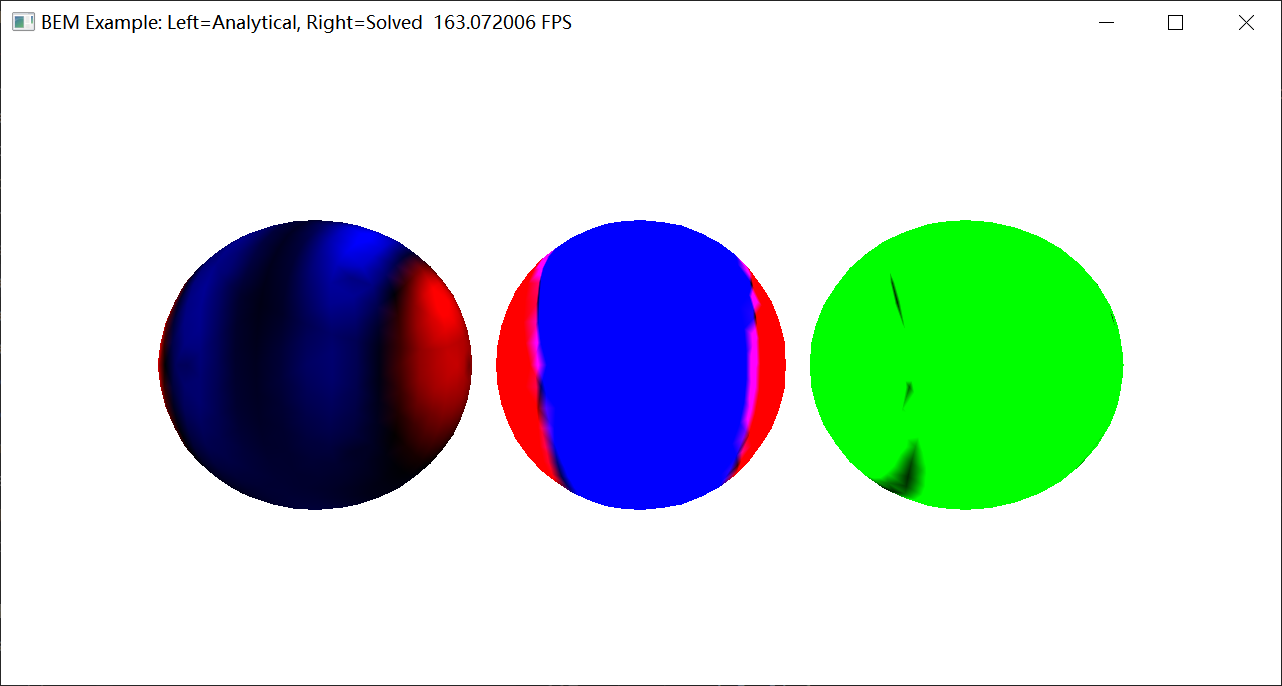
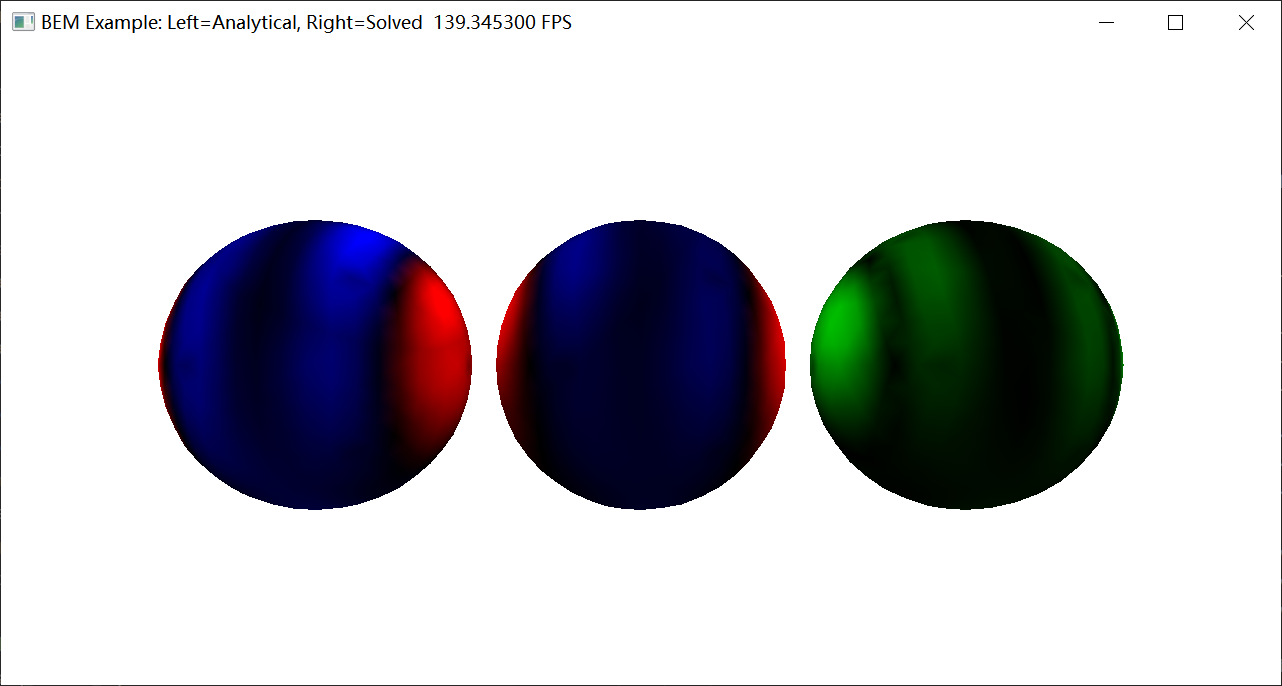
Add Identity Layer

diff --git a/src/BEM_functions/identity_layer/identity_layer_3d.py b/src/BEM_functions/identity_layer/identity_layer_3d.py
@@ -1,0 +1,238 @@
+import taichi as ti
+import numpy as np
+
+from src.BEM_functions.identity_layer import AbstractIdentityLayer
+from src.BEM_functions.utils import CellFluxType, VertAttachType, KernelType, PanelsRelation
+
+
+class IdentityLayer3d(AbstractIdentityLayer):
+    rank = 3
+
+    def __init__(self, BEM_manager, *args, **kwargs,):
+        super(IdentityLayer3d, self).__init__(BEM_manager, *args, **kwargs)
+
+        self._GaussQR = self._BEM_manager._GaussQR
+        self._Q = self._BEM_manager._Q  # Number of local shape functions
+        self._dim = self._BEM_manager._dim
+
+        self._ti_dtype = self._BEM_manager._ti_dtype
+        self._np_dtype = self._BEM_manager._np_dtype
+        self._kernel_type = self._BEM_manager._kernel_type
+        self._n = self._BEM_manager._n
+
+        self.num_of_Dirichlets = self._BEM_manager.get_num_of_Dirichlets()
+        self.num_of_Neumanns = self._BEM_manager.get_num_of_Neumanns()
+        self.num_of_vertices = self._BEM_manager.get_num_of_vertices()
+        self.num_of_panels = self._BEM_manager.get_num_of_panels()
+
+        self._Dirichlet_offset_i = self._BEM_manager._Dirichlet_offset_i
+        self._Neumann_offset_i = self._BEM_manager._Neumann_offset_i
+        self._Dirichlet_offset_j = self._BEM_manager._Dirichlet_offset_j
+        self._Neumann_offset_j = self._BEM_manager._Neumann_offset_j
+    
+    def kill(self):
+        self.num_of_Dirichlets = 0
+        self.num_of_Neumanns = 0
+
+    @ti.func
+    def interplate_from_unit_triangle_to_general(self, r1, r2, x1, x2, x3):
+        """
+        r2
+         ^
+        1|                                      x2
+         |   /|                                 /|
+         |  / |                                / |
+         | /  |                      ->       /  |
+         |/   |                              /   |
+        0|----|1--->r1                    x3/____|x1
+         0
+         
+         - How to project a unit triangle (x1, x2, x3) to a general one?
+         - If we choose (0, 0)->x1, (1, 0)->x2, (1, 1)->x3
+         - x (r1, r2) = (1 - r1) * x1 + (r1 - r2) * x2 + r2 * x3
+        """
+        return (1 - r1) * x1 + (r1 - r2) * x2 + r2 * x3
+    
+    @ti.func
+    def shape_function(self, r1, r2, i: int):
+        return self._BEM_manager.shape_function(r1, r2, i)
+    
+    @ti.func
+    def integrate_on_single_panel(
+        self,
+        triangle_x: int,
+        basis_function_index_x: int,
+        basis_function_index_y: int,
+    ):
+        """
+        Get Integration points and weights for a general triangle (Use Duffy Transform)
+        ### Perspective from Duffy Transform
+         y
+         ^
+        1|__________
+         |          |
+         |  *    *  |
+         |          |     <- This refers GaussQR = 2, you will get GaussQR*GaussQR=4 points and 4 weights
+         |  *    *  |
+        0-----------|1--->x
+         0
+
+         ============= TO =============
+
+         y
+         ^
+        1|
+         |   /|
+         |  / |
+         | /  |           <- Points: (x, y) := (x, x * y)
+         |/   |           <- Weights:   w  To  w
+        0|----|1--->x     <- Jaobian:   1   To  x
+         0
+
+         ============= TO =============
+          r2
+         ^
+        1|                                      x2
+         |   /|                                 /|
+         |  / |                                / |
+         | /  |                      ->       /  |
+         |/   |                              /   |
+        0|----|1--->r1                    x3/____|x1
+         0
+         
+         - How to project a unit triangle (x1, x2, x3) to a general one?
+         - If we choose (0, 0)->x1, (1, 0)->x2, (1, 1)->x3
+         - x (r1, r2) = (1 - r1) * x1 + (r1 - r2) * x2 + r2 * x3
+
+         ==============================
+        To sum up, a random number (t, s) as a sample on triangle, where t,s \in [0, 1]
+        r1, r2          = ...
+        Sampled_point   = (1 - r1) * x1  +  (r1 - r2) * x2  +  r2 * x3
+        Corres_weight   = w * 2 * Area
+        Jacobian        = r1
+        phase functions = 1 - r1, r1 - r2, r2
+
+        !!!!!!!!!!!!!!
+        However, if these two panels has overlaps, such like common edegs, common vertices, even the same panel.
+        For instance, the same panel:
+        Reference: S. A. Sauter and C. Schwab, Boundary Element Methods, Springer Ser. Comput. Math. 39, Springer-Verlag, Berlin, 2011.
+        https://link.springer.com/content/pdf/10.1007/978-3-540-68093-2.pdf
+        See this algorithm from chapter 5.2.1
+
+        Get Integration on coincide triangles, where
+        int_{Tau_x} int_{Tau_x} (func) dx dy
+            = (2 * area_x) * (2 * area_y) *           int_{unit_triangle}    int_{unit_triangle}     (func) dx             dy
+            = (2 * area_x) * (2 * area_y) * sum_{6} * int_{0->1} int_{0->w1} int_{0->w2} int_{0->w3} (func) d(w1) d(w2)    d(w3) d(w4)
+            = (2 * area_x) * (2 * area_y) * sum_{6} * int_{0->1} int_{0->1}  int_{0->1}  int_{0->1}  (func) d(xsi) d(eta1) d(eta2) d(eta3)
+        
+        Similarly, besides the coincide case we have mentioned above,
+        other approaches such like common vertices/edges can be refered by chapter 5.2.2 and 5.2.2
+        """
+        integrand = ti.Vector([0.0 for i in range(self._n)], self._ti_dtype)
+
+        x1 = self._BEM_manager.get_vertice_from_flat_panel_index(self._dim * triangle_x + 0)
+        x2 = self._BEM_manager.get_vertice_from_flat_panel_index(self._dim * triangle_x + 1)
+        x3 = self._BEM_manager.get_vertice_from_flat_panel_index(self._dim * triangle_x + 2)
+        area_x = self._BEM_manager.get_panel_area(triangle_x)
+        normal_x = self._BEM_manager.get_panel_normal(triangle_x)
+        panel_type = self._BEM_manager.get_panel_type(triangle_x)
+
+        GaussQR2 = self._GaussQR * self._GaussQR
+        
+        for gauss_number in range(GaussQR2):
+            iii = gauss_number
+
+            # Generate number(xsi, eta1, eta2, eta3)
+            xsi = self._BEM_manager.Gauss_points_1d[iii // self._GaussQR]
+            eta1 = self._BEM_manager.Gauss_points_1d[iii % self._GaussQR]
+
+            # Scale your weight
+            weight_x = self._BEM_manager.Gauss_weights_1d[iii // self._GaussQR] * self._BEM_manager.Gauss_weights_1d[iii % self._GaussQR] * (area_x * 2.0)
+            # Get your final weight
+            weight = weight_x
+
+            # Generate number(r1, r2) for panel x
+            r1_x = xsi
+            r2_x = eta1 * r1_x
+
+            # Get your jacobian
+            jacobian = r1_x
+
+            phix = self.shape_function(r1_x, r2_x, i=basis_function_index_x)
+            phiy = self.shape_function(r1_x, r2_x, i=basis_function_index_y)
+
+            integrand.x += (
+                phix * phiy
+            ) * weight * jacobian
+        
+        return integrand
+    
+    @ti.kernel
+    def matA_add_global_Identity_matrix(self, mutiplier: float):
+        """
+        Compute BIO matix W_mat
+        Please note other than other three BIOs, this BIO has a negtive sign
+        """
+        if ti.static(self.num_of_Dirichlets > 0):
+            for local_I in range(self.num_of_Dirichlets):
+                # Dirichlet Boundary
+                global_i = self._BEM_manager.map_local_Dirichlet_index_to_panel_index(local_I)
+                self._BEM_manager.mat_A[local_I + self._Dirichlet_offset_i, local_I + self._Dirichlet_offset_j] += mutiplier * self.integrate_on_single_panel(
+                    triangle_x=global_i,
+                    basis_function_index_x=-1, basis_function_index_y=-1
+                )
+            
+        if ti.static(self.num_of_Neumanns > 0):
+            num_of_Neumann_panels = self.num_of_panels - self.num_of_Dirichlets
+            for local_I in range(num_of_Neumann_panels):
+                for iijj in range(9):
+                    ii = iijj // self._dim
+                    jj = iijj % self._dim
+
+                    # Neumann Boundary
+                    global_i = self._BEM_manager.map_local_Neumann_index_to_panel_index(local_I)
+
+                    global_vert_idx_i = self._BEM_manager.get_vertice_index_from_flat_panel_index(self._dim * global_i + ii)
+                    local_vert_idx_i = self._BEM_manager.map_global_vert_index_to_local_Neumann(global_vert_idx_i)
+                    global_vert_idx_j = self._BEM_manager.get_vertice_index_from_flat_panel_index(self._dim * global_i + jj)
+                    local_vert_idx_j = self._BEM_manager.map_global_vert_index_to_local_Neumann(global_vert_idx_j)
+
+                    self._BEM_manager.mat_A[local_vert_idx_i + self._Neumann_offset_i, local_vert_idx_j + self._Neumann_offset_j] += mutiplier * self.integrate_on_single_panel(
+                        triangle_x=global_i,
+                        basis_function_index_x=ii, basis_function_index_y=jj
+                    )
+    
+    @ti.kernel
+    def matP_add_global_Identity_matrix(self, mutiplier: float):
+        """
+        Compute BIO matix W_mat
+        Please note other than other three BIOs, this BIO has a negtive sign
+        """
+        if ti.static(self.num_of_Dirichlets > 0):
+            for local_I in range(self.num_of_Dirichlets):
+                # Dirichlet Boundary
+                global_i = self._BEM_manager.map_local_Dirichlet_index_to_panel_index(local_I)
+                self._BEM_manager._mat_P[local_I + self._Dirichlet_offset_i, local_I + self._Dirichlet_offset_j] += mutiplier * self.integrate_on_single_panel(
+                    triangle_x=global_i,
+                    basis_function_index_x=-1, basis_function_index_y=-1
+                )
+            
+        if ti.static(self.num_of_Neumanns > 0):
+            num_of_Neumann_panels = self.num_of_panels - self.num_of_Dirichlets
+            for local_I in range(num_of_Neumann_panels):
+                for iijj in range(9):
+                    ii = iijj // self._dim
+                    jj = iijj % self._dim
+
+                    # Neumann Boundary
+                    global_i = self._BEM_manager.map_local_Neumann_index_to_panel_index(local_I)
+
+                    global_vert_idx_i = self._BEM_manager.get_vertice_index_from_flat_panel_index(self._dim * global_i + ii)
+                    local_vert_idx_i = self._BEM_manager.map_global_vert_index_to_local_Neumann(global_vert_idx_i)
+                    global_vert_idx_j = self._BEM_manager.get_vertice_index_from_flat_panel_index(self._dim * global_i + jj)
+                    local_vert_idx_j = self._BEM_manager.map_global_vert_index_to_local_Neumann(global_vert_idx_j)
+
+                    self._BEM_manager._mat_P[local_vert_idx_i + self._Neumann_offset_i, local_vert_idx_j + self._Neumann_offset_j] += mutiplier * self.integrate_on_single_panel(
+                        triangle_x=global_i,
+                        basis_function_index_x=ii, basis_function_index_y=jj
+                    )

diff --git a/src/managers/BEM_manager.py b/src/managers/BEM_manager.py
@@ -4,6 +4,7 @@ import math
 import taichi as ti
 import torch
 
+from src.BEM_functions.identity_layer import IdentityLayer3d
 from src.BEM_functions.single_layer import SingleLayer2d, SingleLayer3d
 from src.BEM_functions.double_layer import DoubleLayer2d, DoubleLayer3d
 from src.BEM_functions.adj_double_layer import AdjDoubleLayer2d, AdjDoubleLayer3d
@@ -157,6 +158,7 @@ class BEMManager:
             self.adj_double_layer = AdjDoubleLayer2d(self)
             self.hypersingular_layer = HypersingularLayer2d(self)
         elif self._dim == 3:
+            self.identity_layer = IdentityLayer3d(self)
             self.single_layer = SingleLayer3d(self)
             self.double_layer = DoubleLayer3d(self)
             self.adj_double_layer = AdjDoubleLayer3d(self)
@@ -426,18 +428,6 @@ class BEMManager:
         if ti.static(self.num_of_Neumanns > 0):
             for I, J in self.hypersingular_layer._Wmat:
                 self.mat_A[I + self._Neumann_offset_i, J + self._Neumann_offset_j] += -multiplier * self.hypersingular_layer._Wmat[I, J]
-    
-    @ti.kernel
-    def matA_add_half_I(self, multiplier: float):
-        # += 0.5I
-        for local_I in range(self.num_of_Dirichlets):
-            global_i = self.map_local_Dirichlet_index_to_panel_index(local_I)
-            self.mat_A[local_I + self._Dirichlet_offset_j, local_I + self._Dirichlet_offset_j] += multiplier * 0.5 * self.get_panel_area(global_i)
-        
-        for global_i in range(self.num_of_vertices):
-            if self.get_vertice_type(global_i) == int(VertAttachType.TOBESOLVED):
-                local_I = self.map_global_vert_index_to_local_Neumann(global_i)
-                self.mat_A[local_I + self._Neumann_offset_j, local_I + self._Neumann_offset_j] += multiplier * 0.5 * self.get_vert_area(global_i)
 
     def assemble_matA(self, assemble_type: int, multiplier: float):
         """
@@ -467,12 +457,12 @@ class BEMManager:
             # += M
             self.matA_add_M(multiplier)
         elif assemble_type == int(AssembleType.ADD_HALF_IDENTITY):
-            self.matA_add_half_I(multiplier)
+            self.identity_layer.matA_add_global_Identity_matrix(0.5 * multiplier)
         elif assemble_type == int(AssembleType.ADD_P_MINUS):
-            self.matA_add_half_I(multiplier)
+            self.identity_layer.matA_add_global_Identity_matrix(0.5 * multiplier)
             self.matA_add_M(-multiplier)
         elif assemble_type == int(AssembleType.ADD_P_PLUS):
-            self.matA_add_half_I(multiplier)
+            self.identity_layer.matA_add_global_Identity_matrix(0.5 * multiplier)
             self.matA_add_M(multiplier)
     
     @ti.kernel
@@ -493,19 +483,6 @@ class BEMManager:
         if ti.static(self.num_of_Neumanns > 0):
             for I, J in self.hypersingular_layer._Wmat:
                 self._mat_P[I + self._Neumann_offset_i, J + self._Neumann_offset_j] += -multiplier * self.hypersingular_layer._Wmat[I, J]
-    
-    @ti.kernel
-    def matP_add_half_I(self, multiplier: float):
-        pass
-        # += 0.5I
-        for I in range(self.num_of_Dirichlets):
-            global_i = self.map_local_Dirichlet_index_to_panel_index(I)
-            self._mat_P[I + self._Dirichlet_offset_j, I + self._Dirichlet_offset_j] += multiplier * 0.5 * self.get_panel_area(global_i)
-        
-        for global_i in range(self.num_of_vertices):
-            if self.get_vertice_type(global_i) == int(VertAttachType.TOBESOLVED):
-                local_I = self.map_global_vert_index_to_local_Neumann(global_i)
-                self._mat_P[local_I + self._Neumann_offset_j, local_I + self._Neumann_offset_j] += multiplier * 0.5 * self.get_vert_area(global_i)
     
     def assemble_matP(self, assemble_type: int, multiplier: float):
         """
@@ -535,12 +512,12 @@ class BEMManager:
             # += M
             self.matP_add_M(multiplier)
         elif assemble_type == int(AssembleType.ADD_HALF_IDENTITY):
-            self.matP_add_half_I(multiplier)
+            self.identity_layer.matP_add_global_Identity_matrix(0.5 * multiplier)
         elif assemble_type == int(AssembleType.ADD_P_MINUS):
-            self.matP_add_half_I(multiplier)
+            self.identity_layer.matP_add_global_Identity_matrix(0.5 * multiplier)
             self.matP_add_M(-multiplier)
         elif assemble_type == int(AssembleType.ADD_P_PLUS):
-            self.matP_add_half_I(multiplier)
+            self.identity_layer.matP_add_global_Identity_matrix(0.5 * multiplier)
             self.matP_add_M(multiplier)
             
     @ti.kernel
@@ -681,17 +658,24 @@ class BEMManager:
             torch_rhs = (torch_mat.transpose(0, 1).matmul(torch_rhs.unsqueeze(-1))).squeeze(-1)
             torch_mat = torch_mat.transpose(0, 1).matmul(torch_mat)
         torch_solved = torch.linalg.solve(torch_mat, torch_rhs)
-        np_solved = torch_solved.cpu().numpy()
+        if ti.static(self._use_augment > 0):
+            self._mat_P.fill(0)
+            self.assemble_matP(assemble_type=int(AssembleType.ADD_P_MINUS), multiplier=1.0)  # ADD P_MINUS_O
+            torch_mat_P = self._mat_P.to_torch().to(device)
+            if self._n == 2:
+                torch_mat_P = torch_mat_P[..., 0] + torch_mat_P[..., 1] * 1j
+                torch_mat_P = torch_mat_P.to(torch_solved.dtype)
+            torch_solved = torch.matmul(torch_mat_P, torch_solved)
         if self._n == 1:
-            np_solved = np.expand_dims(np_solved, axis=-1)
+            torch_solved = torch_solved.unsqueeze(-1)
         elif self._n == 2:
-            np_solved = np.stack(
-                (np.real(np_solved), np.imag(np_solved)),
-                axis=-1
+            torch_solved = torch.stack(
+                (torch_solved.real, torch_solved.imag),
+                -1
             )
-            np_solved[..., 1] = 0
+            torch_solved[..., 1] = 0
 
-        self.raw_solved.from_numpy(np_solved)
+        self.raw_solved.from_torch(torch_solved)
         
         self.compute_analytical_raw_solved()
 

diff --git a/src/BEM_functions/identity_layer/abstract_identity_layer.py b/src/BEM_functions/identity_layer/abstract_identity_layer.py
@@ -1,0 +1,13 @@
+from abc import ABC, abstractmethod
+import taichi as ti
+
+
+@ti.data_oriented
+class AbstractIdentityLayer(ABC):
+    def __init__(self, BEM_manager, *args, **kwargs,):
+        self._BEM_manager = BEM_manager
+
+    @property
+    @abstractmethod
+    def rank(self) -> int:
+        ...

diff --git a/src/BEM_functions/identity_layer/__init__.py b/src/BEM_functions/identity_layer/__init__.py
@@ -1,0 +1,2 @@
+from .abstract_identity_layer import AbstractIdentityLayer
+from .identity_layer_3d import IdentityLayer3d
